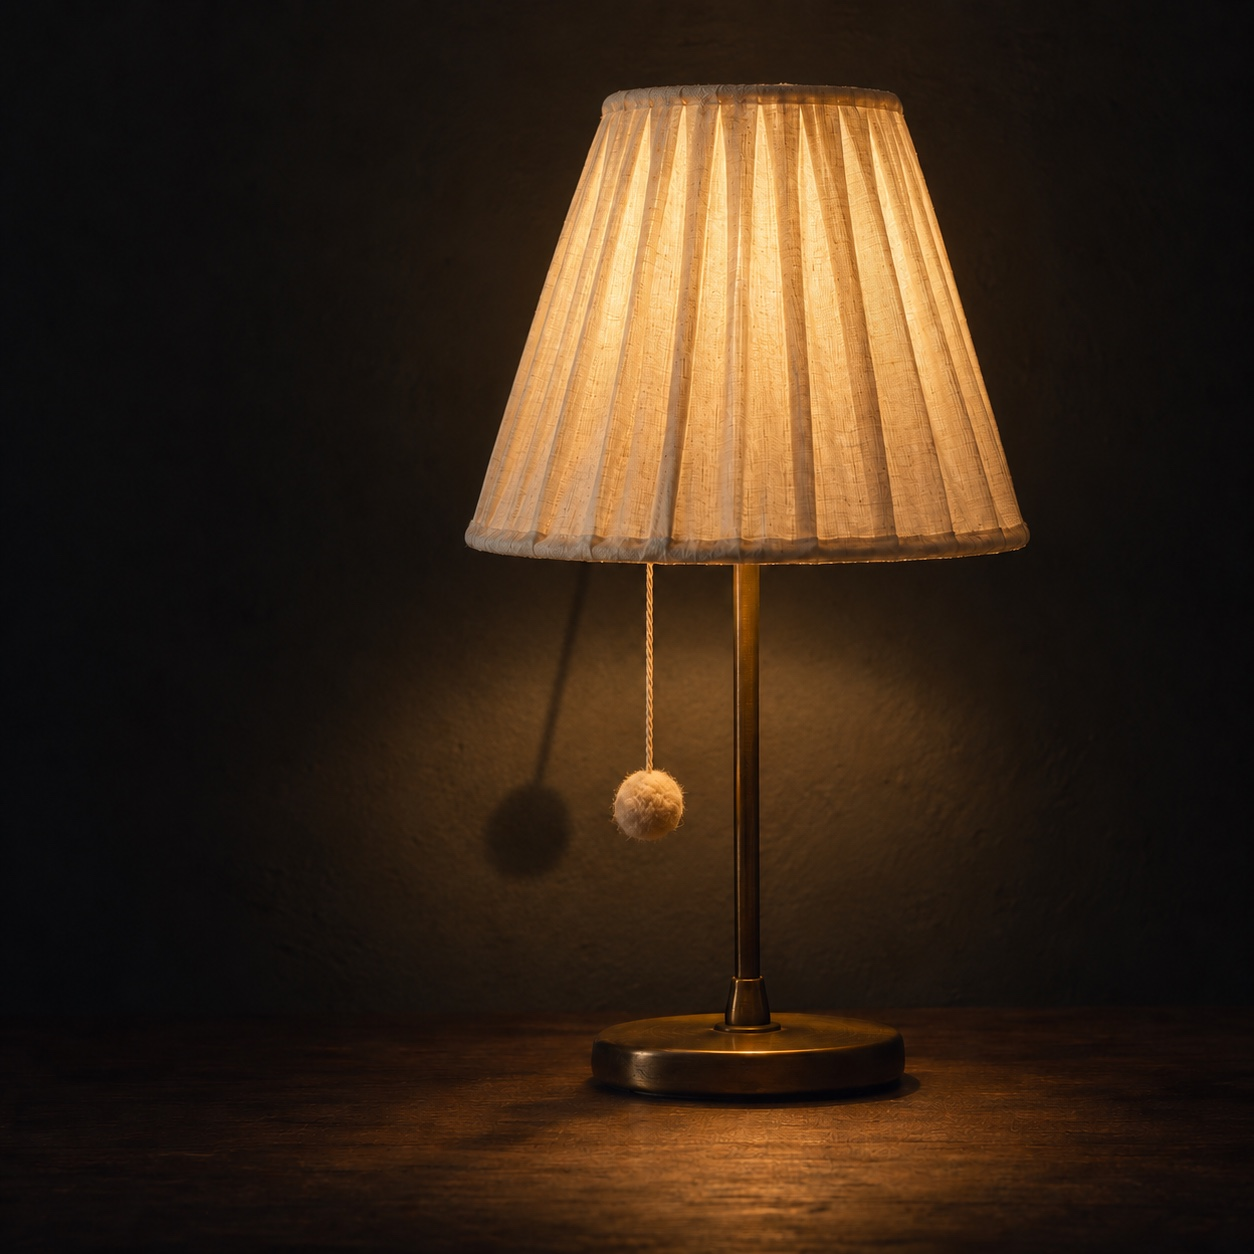
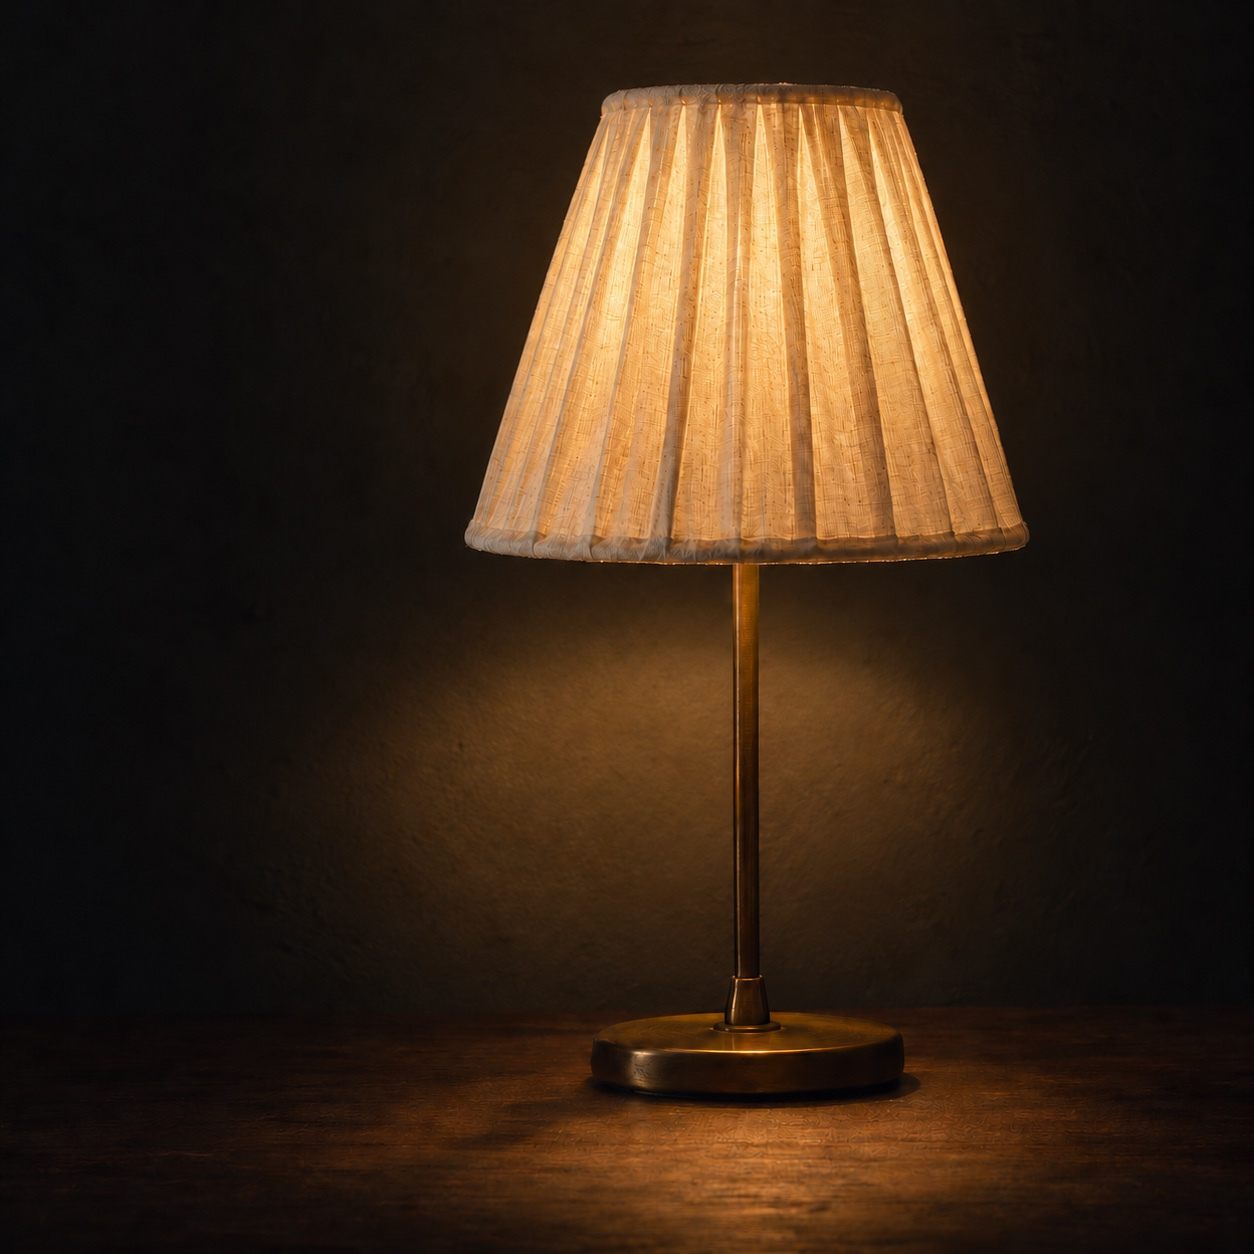
Let visitors pull the photographic pompom to switch the lamp

diff --git a/site/rest_lumen/style.css b/site/rest_lumen/style.css
@@ -14,8 +14,20 @@ h1{font-size:clamp(38px,4.1vw,58px);font-weight:600;line-height:1.08;letter-spac
 .button:hover{background:#ffdaa2}.button:active{transform:translateY(1px)}.quiet,figcaption{font-size:13px;line-height:1.6;color:var(--muted)}.quiet{margin-top:20px}
 figure{margin:0}img{max-width:100%;height:auto}.hero-lamp{margin:0;text-align:center;min-width:0}.hero-lamp figcaption{max-width:320px;margin:14px auto 0;position:relative}
 .lamp-scene{position:relative;aspect-ratio:1;width:100%;max-width:600px;margin:auto;isolation:isolate}
-.lamp-switch{display:block;position:relative;width:100%;padding:0;background:none;border:0;cursor:pointer;border-radius:6px;touch-action:manipulation}.lamp-switch img{display:block;width:100%;height:auto;transition:filter .65s ease-out;mask-image:radial-gradient(ellipse at 55% 50%,#000 42%,#000d 60%,transparent 76%)}
-body[data-lamp="off"] .lamp-switch img{filter:brightness(.26) saturate(.45)}
+/* The photograph and wool cutout are separate so the pull has physical travel. */
+.lamp-photo{display:block;width:100%;height:auto;transition:filter .65s ease-out;mask-image:radial-gradient(ellipse at 55% 50%,#000 42%,#000d 60%,transparent 76%)}
+.pull-art,.pull-shadow{position:absolute;left:47.6%;top:44.4%;width:8.5%;height:23%;pointer-events:none}
+.pull-art img,.pull-shadow img{position:absolute;inset:0;width:100%;height:100%}
+.rope{clip-path:inset(0 0 34%);transform:scaleY(var(--stretch,1));transform-origin:top}
+.pompom{clip-path:inset(64% 0 0);transform:translateY(var(--pull,0px))}
+.pull-shadow{left:38.4%;top:44.4%;filter:brightness(0) blur(3px);opacity:.65;transform:skewX(-12deg);transform-origin:top;transition:opacity .65s ease-out}
+.pull-shadow img{transform:scaleY(var(--stretch,1));transform-origin:top}
+.pull-switch{position:absolute;left:calc(51.85% - 24px);top:calc(64% - 24px);width:48px;height:48px;border:0;padding:0;background:transparent;border-radius:50%;cursor:grab;touch-action:none;transform:translateY(var(--pull,0px))}
+.lamp-scene:not(.pulling) .rope,.lamp-scene:not(.pulling) .pompom,.lamp-scene:not(.pulling) .pull-switch,.lamp-scene:not(.pulling) .pull-shadow img{transition:transform .55s cubic-bezier(.22,1.4,.36,1)}
+.pulling .pull-switch{cursor:grabbing}
+body[data-lamp="off"] .lamp-photo{filter:brightness(.26) saturate(.45)}
+body[data-lamp="off"] .pull-art{filter:brightness(.45) saturate(.6)}
+body[data-lamp="off"] .pull-shadow{opacity:0}
 .story{display:grid;grid-template-columns:.8fr 1.2fr;gap:72px;align-items:center;border-top:1px solid var(--line);padding-block:80px}.story-copy p,.pause p{color:var(--muted);max-width:430px}.shot{max-width:590px}.shot img{display:block;border:1px solid #605c50;border-radius:6px;box-shadow:14px 22px 42px #0004}.shot figcaption{margin-top:16px}
 .pause{display:grid;grid-template-columns:1.2fr .8fr;gap:100px;align-items:center;padding-block:35px 85px}.reminder{max-width:350px;margin:auto}.reminder img{display:block;border-radius:6px;border:1px solid #605c50;box-shadow:14px 22px 42px #0004}kbd{font:12px ui-monospace,monospace;border:1px solid var(--line);border-radius:3px;padding:3px 6px;background:var(--surface)}
 .downloads{padding-block:75px;border-top:1px solid var(--line)}.download-intro{color:var(--muted);margin-bottom:36px}.download-row{display:grid;grid-template-columns:230px 1fr;gap:10px 30px;border-top:1px solid var(--line);padding-block:32px}h3{font-size:24px;font-weight:500;margin:0}.download-row p{margin:6px 0;color:var(--muted);font-size:13px}.choices{display:flex;align-items:center;gap:24px;flex-wrap:wrap}.choices span{font-size:11px;font-weight:400}.text-link{font-size:14px;min-height:44px;display:flex;flex-direction:column;justify-content:center}.text-link span{display:block}.download-row .note{grid-column:2;max-width:630px}
@@ -24,4 +36,4 @@ details{margin-top:28px;background:var(--surface);border:1px solid var(--line);p
 @media(max-width:900px){.hero{gap:10px;min-height:580px}h1{font-size:42px}.story{gap:36px}.pause{gap:48px}}
 @media(max-width:767px){.wrap{padding-inline:24px}header{min-height:76px;gap:16px}.studio{font-size:13px}.studio span{margin-left:8px}.hero{grid-template-columns:1fr;gap:16px;min-height:0;padding-block:44px 50px}.wordmark{margin-bottom:25px}h1{font-size:clamp(36px,8.4vw,52px)}.lead{font-size:17px}.hero-lamp{width:100%;max-width:420px;margin:auto}.hero-lamp figcaption{margin-top:0}.story,.pause{grid-template-columns:1fr;gap:32px;padding-block:55px}.story-copy p,.pause p{max-width:none}.reminder{max-width:320px}.downloads{padding-block:50px}.download-row{grid-template-columns:1fr;gap:18px}.download-row .note{grid-column:1}.choices{gap:18px}.button{padding:13px 18px}.choices .button{flex-wrap:wrap;justify-content:flex-start;gap:8px 12px}.choices .button span{white-space:nowrap}footer{flex-wrap:wrap;gap:12px}}
 @media(max-width:380px){.wrap{padding-inline:20px}header{gap:10px}.studio span{display:none}header>a:last-of-type{font-size:13px}.choices{align-items:flex-start;flex-direction:column}}
-@media(prefers-reduced-motion:reduce){html{scroll-behavior:auto}.button,.lamp-switch img{transition:none}.button:active{transform:none}}
+@media(prefers-reduced-motion:reduce){html{scroll-behavior:auto}.button,.lamp-photo,.pull-art,.pull-shadow,.lamp-scene .rope,.lamp-scene .pompom,.lamp-scene .pull-switch,.lamp-scene .pull-shadow img{transition:none}.button:active{transform:none}}

diff --git a/site/rest_lumen/index.html b/site/rest_lumen/index.html
@@ -20,7 +20,7 @@
 <main id="main">
 <section class="hero wrap">
 <div class="intro"><p class="wordmark">Lumen <span>+ REST</span></p><h1>Яркость экрана<br>и таймер перерывов</h1><p class="lead">Lumen уменьшает яркость, делает оттенок экрана теплее и напоминает о перерывах.</p><a class="button" href="#download">Скачать</a><p class="quiet">Для macOS, Windows и Linux. Без аккаунта.</p></div>
-<figure class="hero-lamp"><div class="lamp-scene"><button class="lamp-switch" type="button" aria-label="Включить или выключить свет на странице" aria-pressed="true"><img src="/rest_lumen/assets/lamp-room.jpg" width="1254" height="1254" alt="Кремовая лампа Lumen с тканевым абажуром и помпоном" fetchpriority="high"></button></div><figcaption>Нажми на лампу, чтобы включить или выключить свет на странице.</figcaption></figure>
+<figure class="hero-lamp"><div class="lamp-scene"><img class="lamp-photo" src="/rest_lumen/assets/lamp-room.jpg" width="1254" height="1254" alt="Кремовая лампа Lumen с тканевым абажуром и помпоном" fetchpriority="high"><div class="pull-shadow" aria-hidden="true"><img src="/rest_lumen/assets/pull-cord.png" alt=""></div><div class="pull-art" aria-hidden="true"><img class="rope" src="/rest_lumen/assets/pull-cord.png" alt=""><img class="pompom" src="/rest_lumen/assets/pull-cord.png" alt=""></div><button class="pull-switch" type="button" aria-label="Переключить свет на странице" aria-describedby="pull-hint" aria-pressed="true"></button></div><figcaption id="pull-hint">Потяни помпон вниз и отпусти. С клавиатуры — Enter или пробел.</figcaption></figure>
 </section>
 <section class="story wrap" aria-labelledby="light-title">
 <div class="story-copy"><h2 id="light-title">Управление светом</h2><p>Яркость и оттенок регулируются в настройках. На Mac переключатель-помпон остаётся в углу экрана после закрытия окна.</p><p>При выключении режима или выходе Lumen восстанавливает исходные цвета.</p></div>

diff --git a/site/rest_lumen/lamp.js b/site/rest_lumen/lamp.js
@@ -1,10 +1,46 @@
-// An illustrative page light; the desktop app controls actual display colors.
+// Illustrative page light. Pointer travel never controls system display settings.
 (() => {
-  const button = document.querySelector('.lamp-switch');
-  if (!button) return;
-  button.addEventListener('click', () => {
+  const button = document.querySelector('.pull-switch');
+  const scene = document.querySelector('.lamp-scene');
+  if (!button || !scene) return;
+  let gesture = null;
+  const toggle = () => {
     const on = button.getAttribute('aria-pressed') !== 'true';
     button.setAttribute('aria-pressed', String(on));
     document.body.dataset.lamp = on ? 'on' : 'off';
+  };
+  const reset = () => {
+    gesture = null;
+    scene.classList.remove('pulling');
+    scene.style.setProperty('--pull', '0px');
+    scene.style.setProperty('--stretch', '1');
+  };
+  button.addEventListener('pointerdown', event => {
+    if (!event.isPrimary || event.button !== 0) return;
+    const width = scene.getBoundingClientRect().width;
+    gesture = { id: event.pointerId, y: event.clientY, distance: 0,
+      threshold: Math.max(18, width * .055), max: width * .14,
+      rope: width * .23 * .66 };
+    button.setPointerCapture(event.pointerId);
+    scene.classList.add('pulling');
+    event.preventDefault();
   });
+  button.addEventListener('pointermove', event => {
+    if (!gesture || event.pointerId !== gesture.id) return;
+    gesture.distance = Math.max(0, Math.min(gesture.max, event.clientY - gesture.y));
+    scene.style.setProperty('--pull', `${gesture.distance}px`);
+    scene.style.setProperty('--stretch', String(1 + gesture.distance / gesture.rope));
+  });
+  button.addEventListener('pointerup', event => {
+    if (!gesture || event.pointerId !== gesture.id) return;
+    const activated = gesture.distance >= gesture.threshold;
+    reset();
+    if (activated) toggle();
+  });
+  button.addEventListener('pointercancel', reset);
+  button.addEventListener('lostpointercapture', reset);
+  button.addEventListener('click', event => {
+    if (event.detail === 0) toggle(); // Native Enter/Space or assistive activation.
+  });
+  window.addEventListener('blur', reset);
 })();

diff --git a/site/i18n/en.js b/site/i18n/en.js
@@ -1,5 +1,7 @@
 // Reviewed English copy; keys match the original Russian UI.
 window.FP_EN = {
+  "Переключить свет на странице": "Toggle the page light",
+  "Потяни помпон вниз и отпусти. С клавиатуры — Enter или пробел.": "Pull the pompom down and release. On a keyboard, use Enter or Space.",
   "Включить или выключить свет на странице": "Turn the page light on or off",
   "Нажми на лампу, чтобы включить или выключить свет на странице.": "Click the lamp to turn the page light on or off.",
   "Установи Happ из App Store. Если приложение недоступно для твоего региона, обратись в поддержку.": "Install Happ from the App Store. If the app is unavailable in your region, contact support.",

diff --git a/.impeccable/surfaces/site-rest-lumen-index-html.md b/.impeccable/surfaces/site-rest-lumen-index-html.md
@@ -15,7 +15,7 @@ The bilingual RU/EN product page at `/rest_lumen/` helps visitors understand scr
 
 Inherit local Golos Text, the compact Unbounded studio wordmark, 3px control corners and 6px panel corners. Use the implemented dark background `#0d1014`, warm light text and warm accent `#f1c27d`. The owner pinned the AI-generated photographic fabric lamp after rejecting a flat render. `assets/lamp-room.jpg` presents the cream fabric shade and pompon in a dark room with physical illumination and shadows; its masked edges blend into the surrounding background.
 
-Desktop pairs the product headline and download action with the lamp. Mobile stacks the same reading order. The recognizable moment is clicking the lamp to dim or restore its pictured light. Preserve the actual macOS settings and reminder screenshots below the hero as product evidence.
+Desktop pairs the product headline and download action with the lamp. Mobile stacks the same reading order. The recognizable moment is pulling the lamp to dim or restore its pictured light. Preserve the actual macOS settings and reminder screenshots below the hero as product evidence.
 
 ## Content and actions
 
@@ -35,3 +35,6 @@ Preserve honest beta copy, installation constraints and distinctions between mac
 Source basis: `index.html`, `style.css` and `lamp.js`, inspected on 2026-10-07. Acceptance checks: photographic lamp loads and blends into the dark ground; on/off and pressed state agree; keyboard activation and focus work; RU/EN labels remain complete; reduced motion removes transitions; mobile remains readable; real screenshots and all six release links remain unchanged. These criteria do not claim completed browser or deployment verification.
 
 No visual direction remains open: the owner selected the photographic lamp. Application release verification remains governed by the Lumen + REST project separately.
+
+## Pull interaction — owner extension
+Pull the separate photographic pompom downward and release to switch the illustrative light. Native Pointer Events/capture, bounded travel, threshold activation, cancellation cleanup, Enter/Space fallback. The rope extends while pompom dimensions remain fixed. Reduced motion removes return/light transitions. `assets/pull-cord.png` preserves alpha; no app/system control implied.

diff --git a/DESIGN.md b/DESIGN.md
@@ -47,7 +47,7 @@ Canvas observation resumes on a persisted `pageshow` after cached back navigatio
 ## Lumen + REST product surface
 `/rest_lumen/` inherits local Golos Text typography, the compact Unbounded studio wordmark, and the shared geometry: controls 3px, panels 6px. Its own dark background is `#0d1014`, with warm ivory text and a warm `#f1c27d` action accent; these product-specific colors do not replace the homepage/VPN palette.
 
-The owner selected an AI-generated photographic fabric lamp in a dark room after rejecting the flat render. Preserve believable fabric, physical light and shadows in `site/rest_lumen/assets/lamp-room.jpg`; softly masked image edges blend into the page background. The lamp button toggles an illustrative page-only on/off state with `aria-pressed`, keyboard activation and visible focus. It does not control the visitor's display. Reduced motion removes image/button transitions and smooth scrolling.
+The owner selected an AI-generated photographic fabric lamp in a dark room after rejecting the flat render. Preserve believable fabric, physical light and shadows in `site/rest_lumen/assets/lamp-room.jpg`; softly masked image edges blend into the page background. A separate transparent photographic wool pompom/cord cutout overlays the cleaned room photograph. Pulling the pompom downward past a bounded threshold and releasing toggles the illustrative page light; the cord stretches while the wool ball keeps its proportions, and both return with a short spring curve. A projected cord/pompom shadow follows the gesture. Short/upward pulls and cancellation leave the light unchanged. Pointer capture supports mouse and touch. The pompom button exposes `aria-pressed`, Enter/Space activation and visible focus. It does not control the visitor's display. Reduced motion removes image/button transitions and smooth scrolling.
 
 Keep the responsive reading order: product purpose and download action → lamp → actual macOS settings and reminder screenshots → platform downloads and honest beta limitations. Preserve the real screenshots and all six existing release-package links. RU/EN copy and accessibility labels use the shared `fp_lang` preference and reviewed `/i18n/en.js` keys.
 
